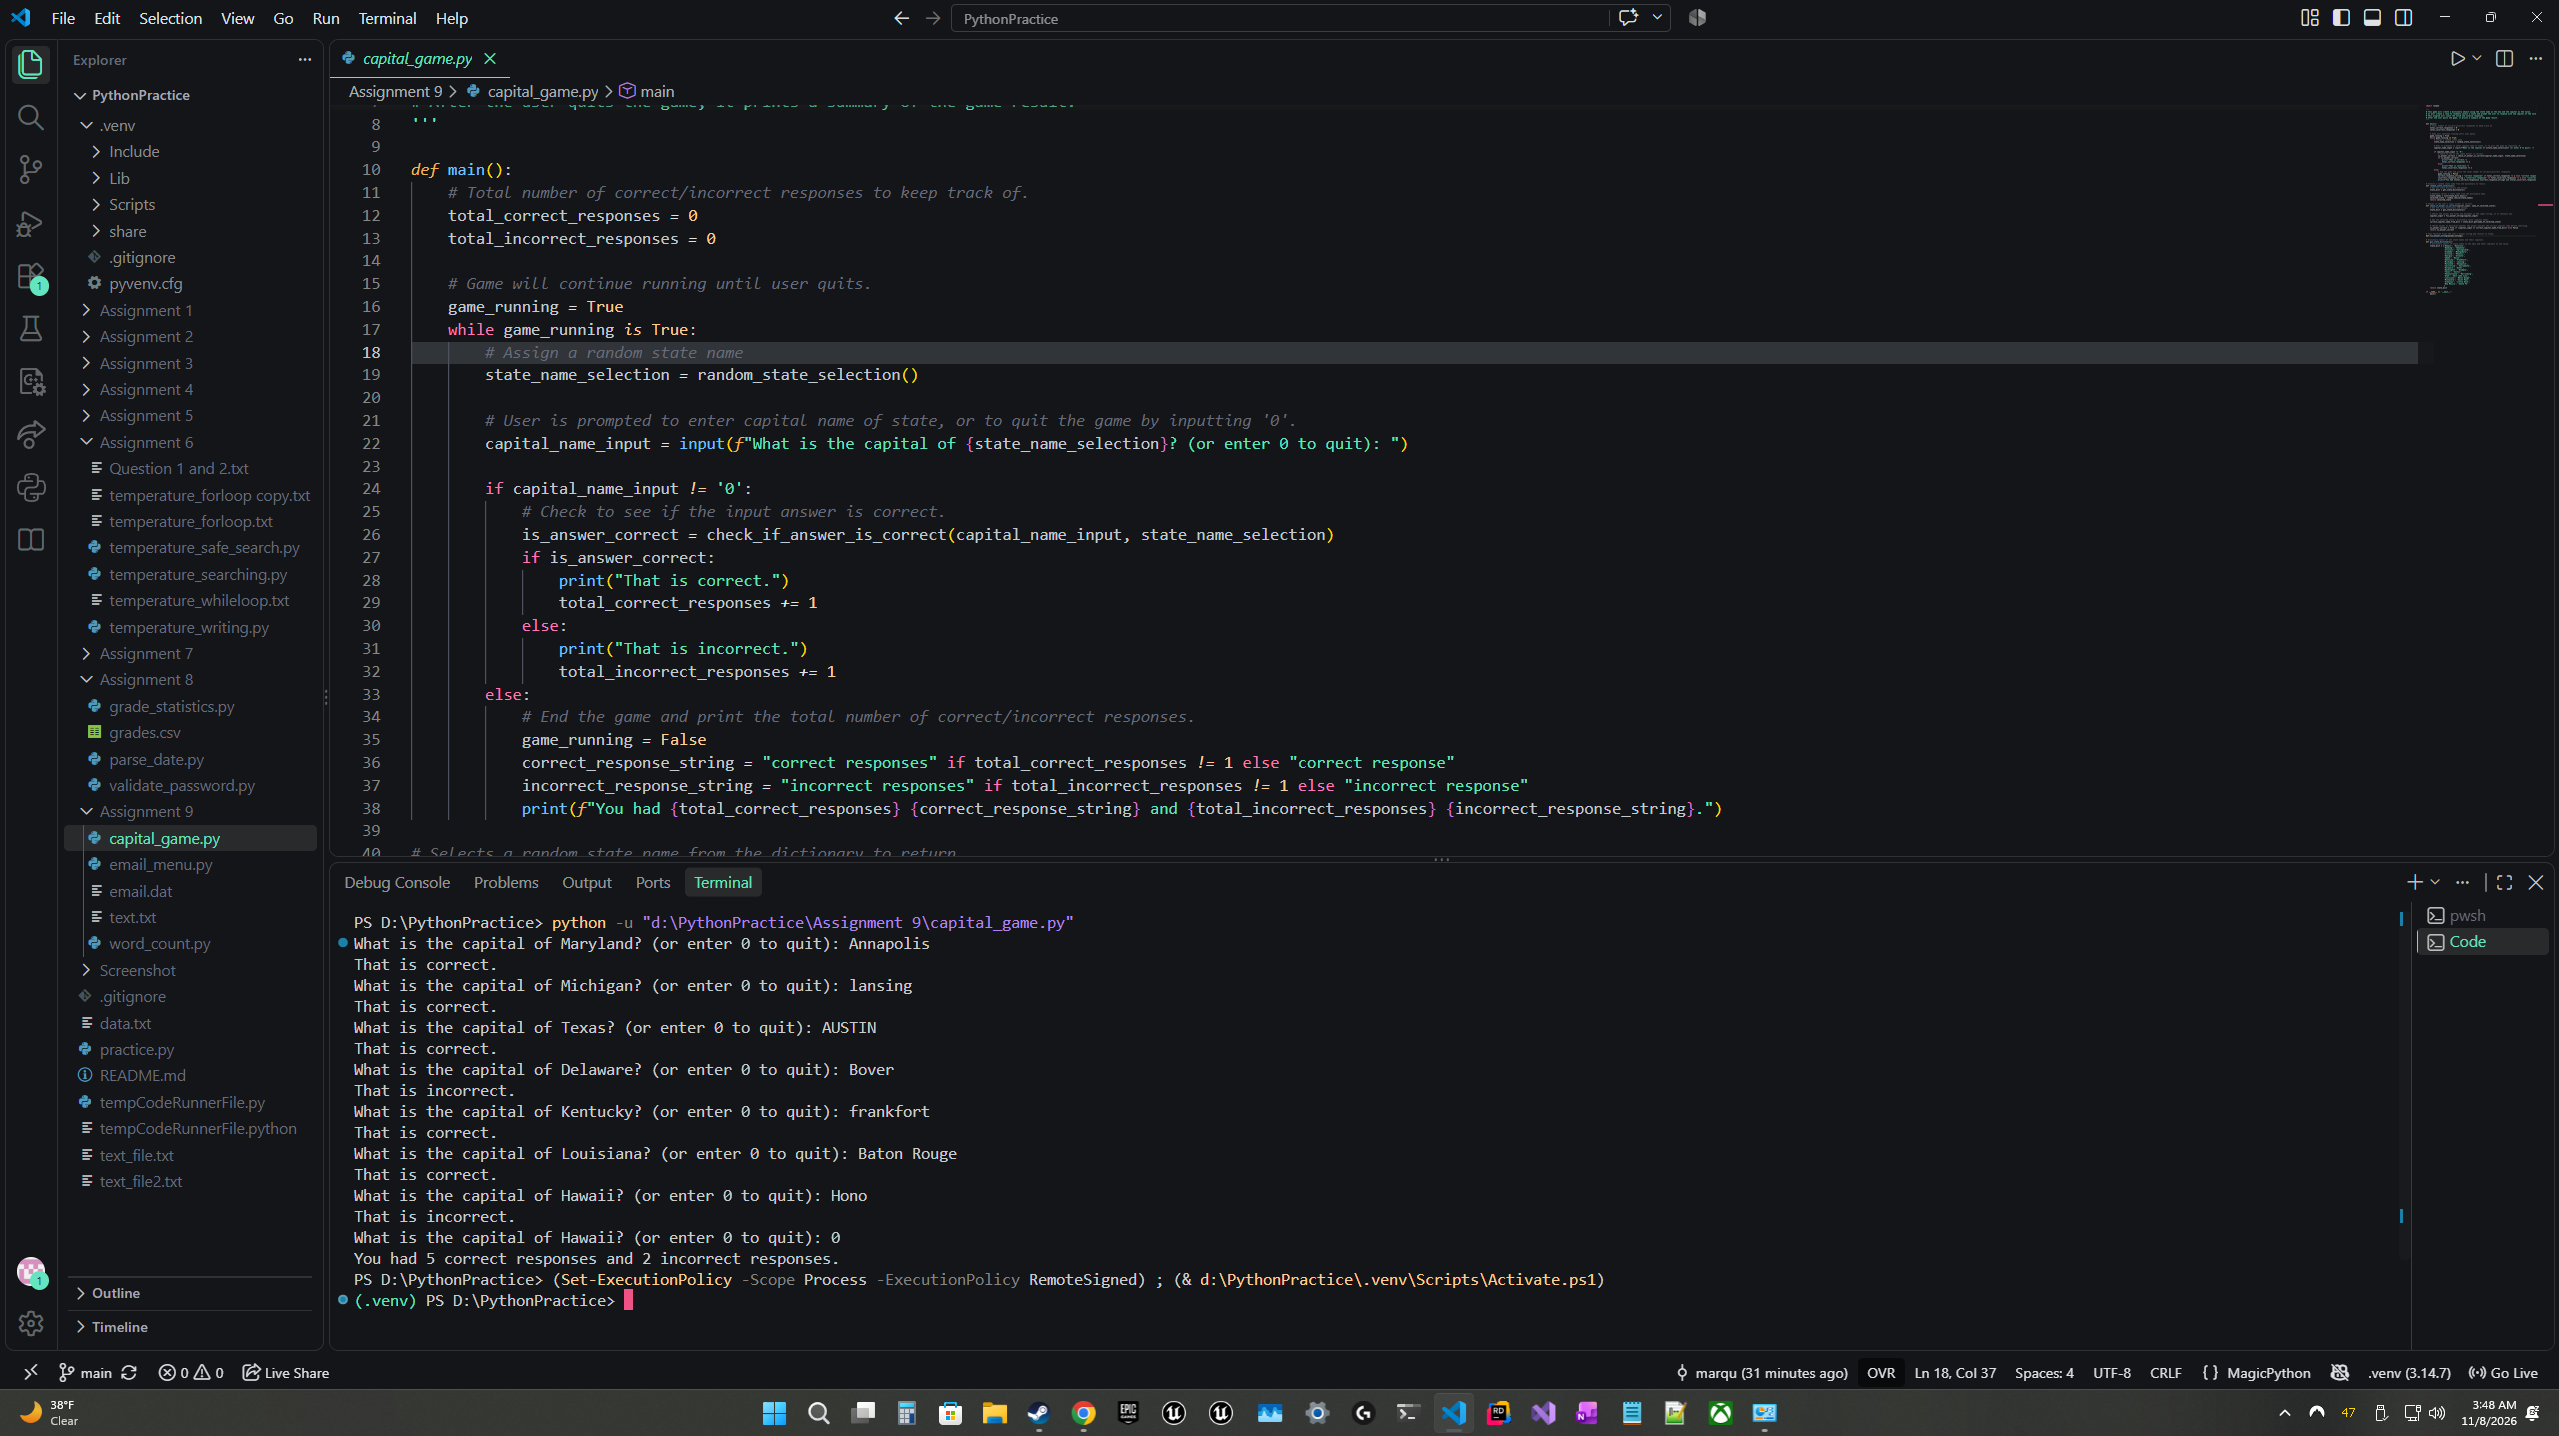
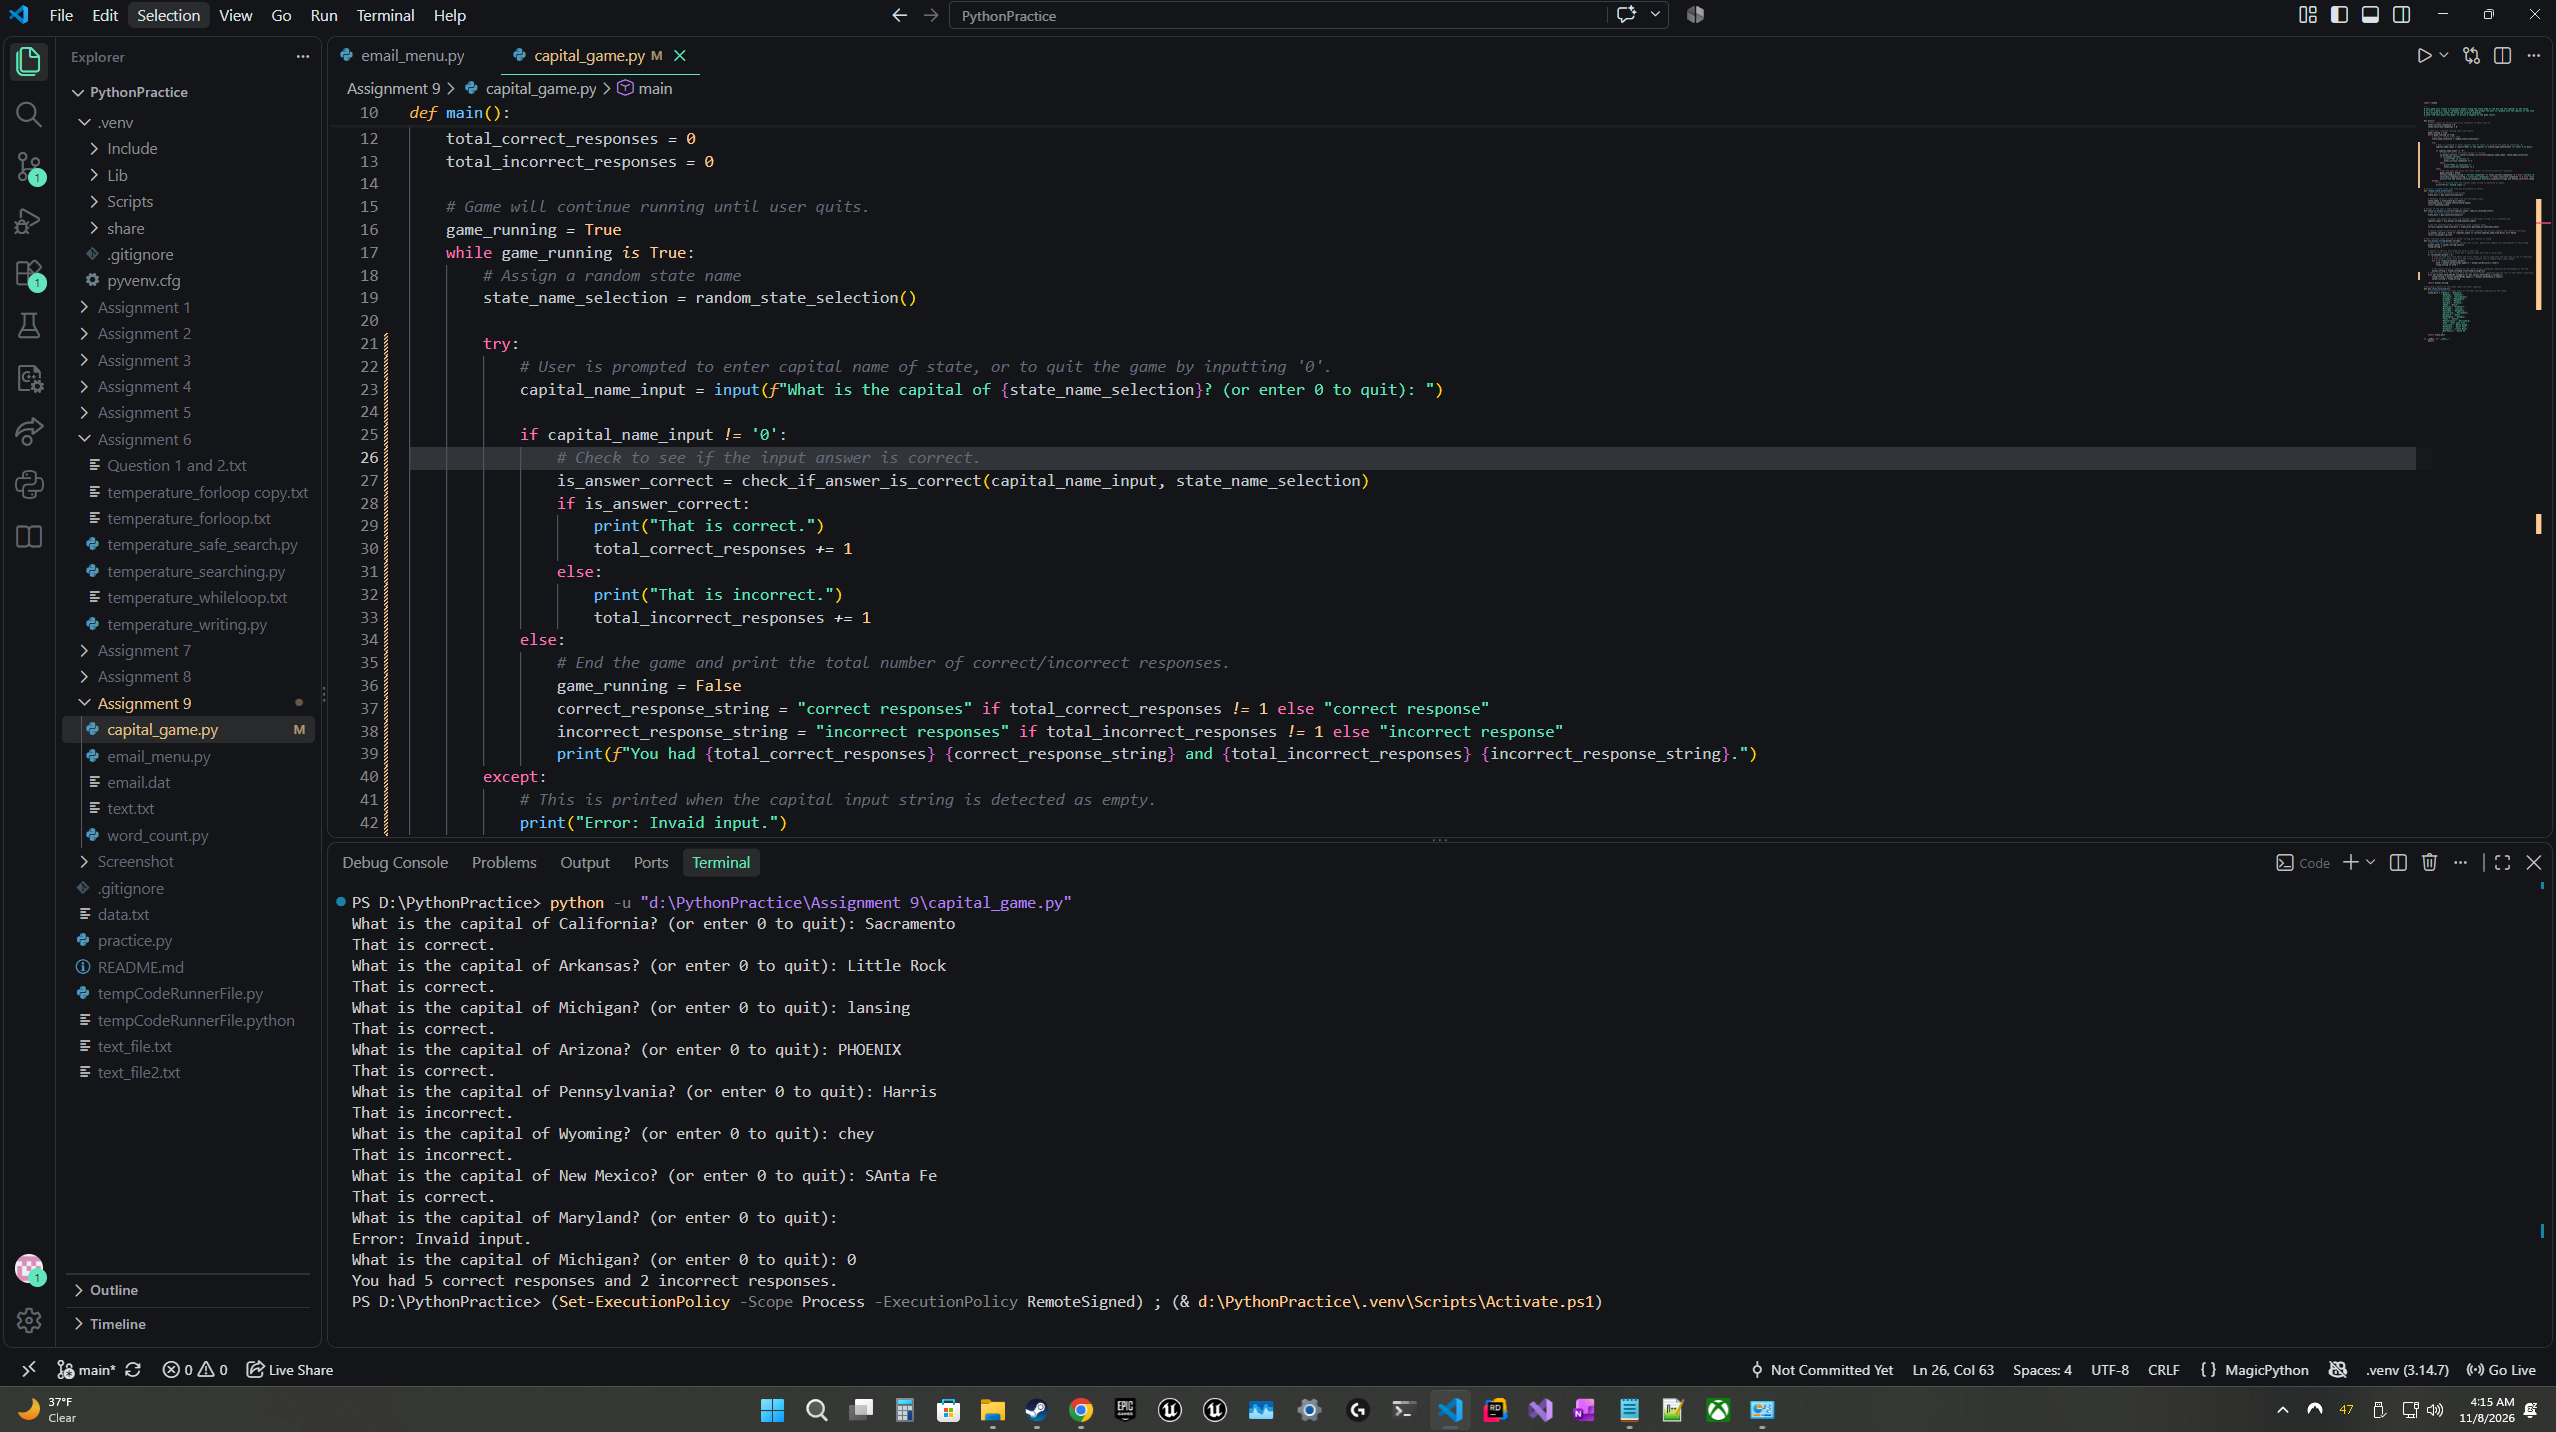
Assignment

diff --git a/Assignment 9/capital_game.py b/Assignment 9/capital_game.py
@@ -18,25 +18,29 @@ def main():
         # Assign a random state name
         state_name_selection = random_state_selection()
 
-        # User is prompted to enter capital name of state, or to quit the game by inputting '0'. 
-        capital_name_input = input(f"What is the capital of {state_name_selection}? (or enter 0 to quit): ")
-
-        if capital_name_input != '0':
-            # Check to see if the input answer is correct.
-            is_answer_correct = check_if_answer_is_correct(capital_name_input, state_name_selection)
-            if is_answer_correct:
-                print("That is correct.")
-                total_correct_responses += 1
+        try:
+            # User is prompted to enter capital name of state, or to quit the game by inputting '0'. 
+            capital_name_input = input(f"What is the capital of {state_name_selection}? (or enter 0 to quit): ")
+    
+            if capital_name_input != '0':
+                # Check to see if the input answer is correct.
+                is_answer_correct = check_if_answer_is_correct(capital_name_input, state_name_selection)
+                if is_answer_correct:
+                    print("That is correct.")
+                    total_correct_responses += 1
+                else:
+                    print("That is incorrect.")
+                    total_incorrect_responses += 1
             else:
-                print("That is incorrect.")
-                total_incorrect_responses += 1
-        else:
-            # End the game and print the total number of correct/incorrect responses. 
-            game_running = False
-            correct_response_string = "correct responses" if total_correct_responses != 1 else "correct response"
-            incorrect_response_string = "incorrect responses" if total_incorrect_responses != 1 else "incorrect response"
-            print(f"You had {total_correct_responses} {correct_response_string} and {total_incorrect_responses} {incorrect_response_string}.")
-        
+                # End the game and print the total number of correct/incorrect responses. 
+                game_running = False
+                correct_response_string = "correct responses" if total_correct_responses != 1 else "correct response"
+                incorrect_response_string = "incorrect responses" if total_incorrect_responses != 1 else "incorrect response"
+                print(f"You had {total_correct_responses} {correct_response_string} and {total_incorrect_responses} {incorrect_response_string}.")
+        except:
+            # This is printed when the capital input string is detected as empty.
+            print("Error: Invaid input.")
+                
 # Selects a random state name from the dictionary to return.
 def random_state_selection():
     # Get the state dictionary and assign.
@@ -79,11 +83,10 @@ def fix_answer_string(answer_string):
 
         # The answer string is updated by the fixed string, alongside removing the whitespace at the end.
         answer_string = fixed_string[0:(len(fixed_string)-1)]
-    else:
-        # Before updating the answer string, check to make sure the single word has its first letter uppercase and the rest of the letters lowercase.
-        if not answer_words[0][0].isupper() or not answer_words[0][1:].islower():
-            fixed_string = answer_words[0][0].upper() + answer_words[0][1:].lower()
-            answer_string = fixed_string
+    # Check to make sure the single word has its first letter uppercase and the rest of the letters lowercase.
+    elif not answer_words[0][0].isupper() or not answer_words[0][1:].islower(): 
+        fixed_string = answer_words[0][0].upper() + answer_words[0][1:].lower()
+        answer_string = fixed_string
 
     return answer_string
 
